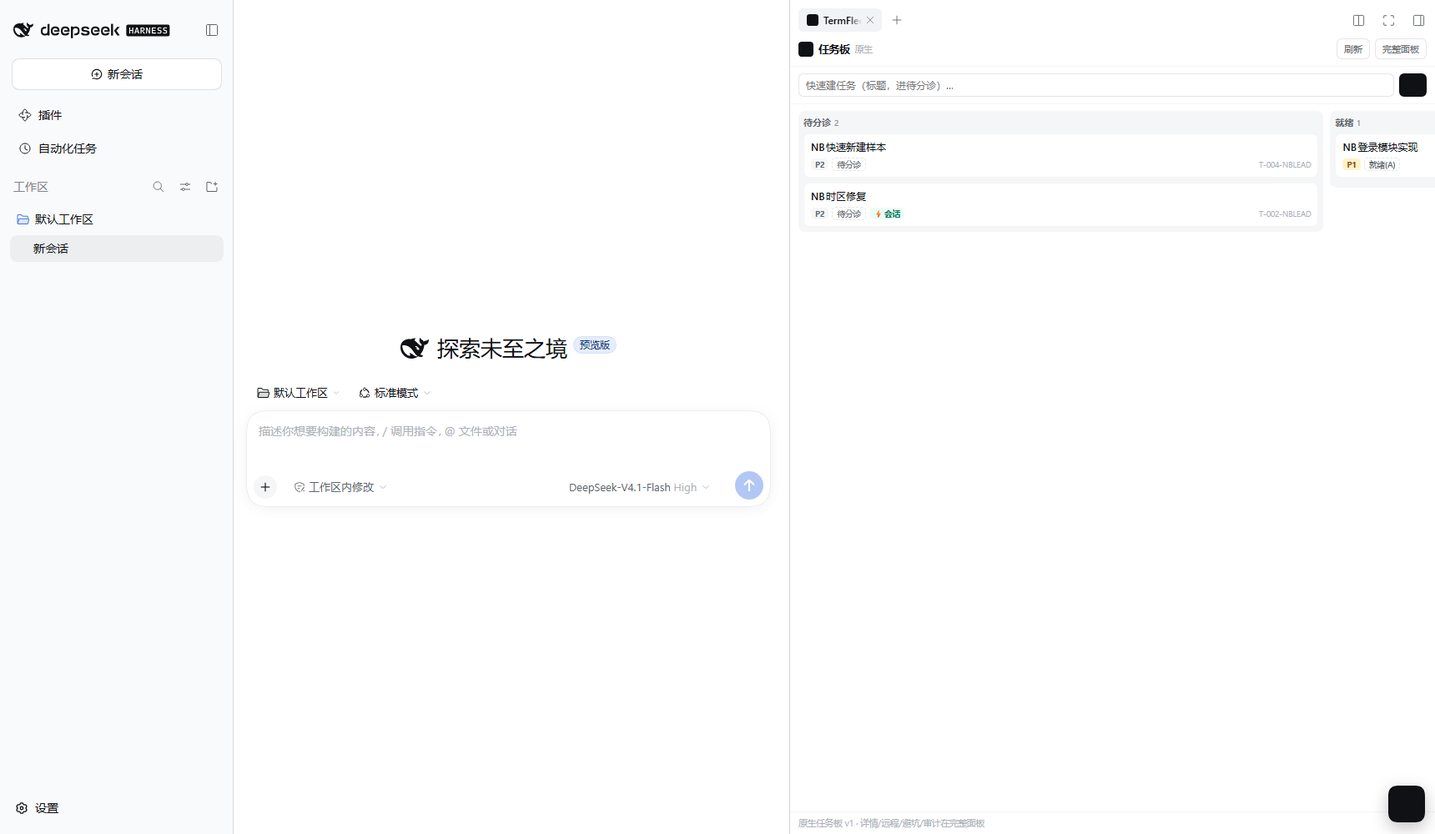
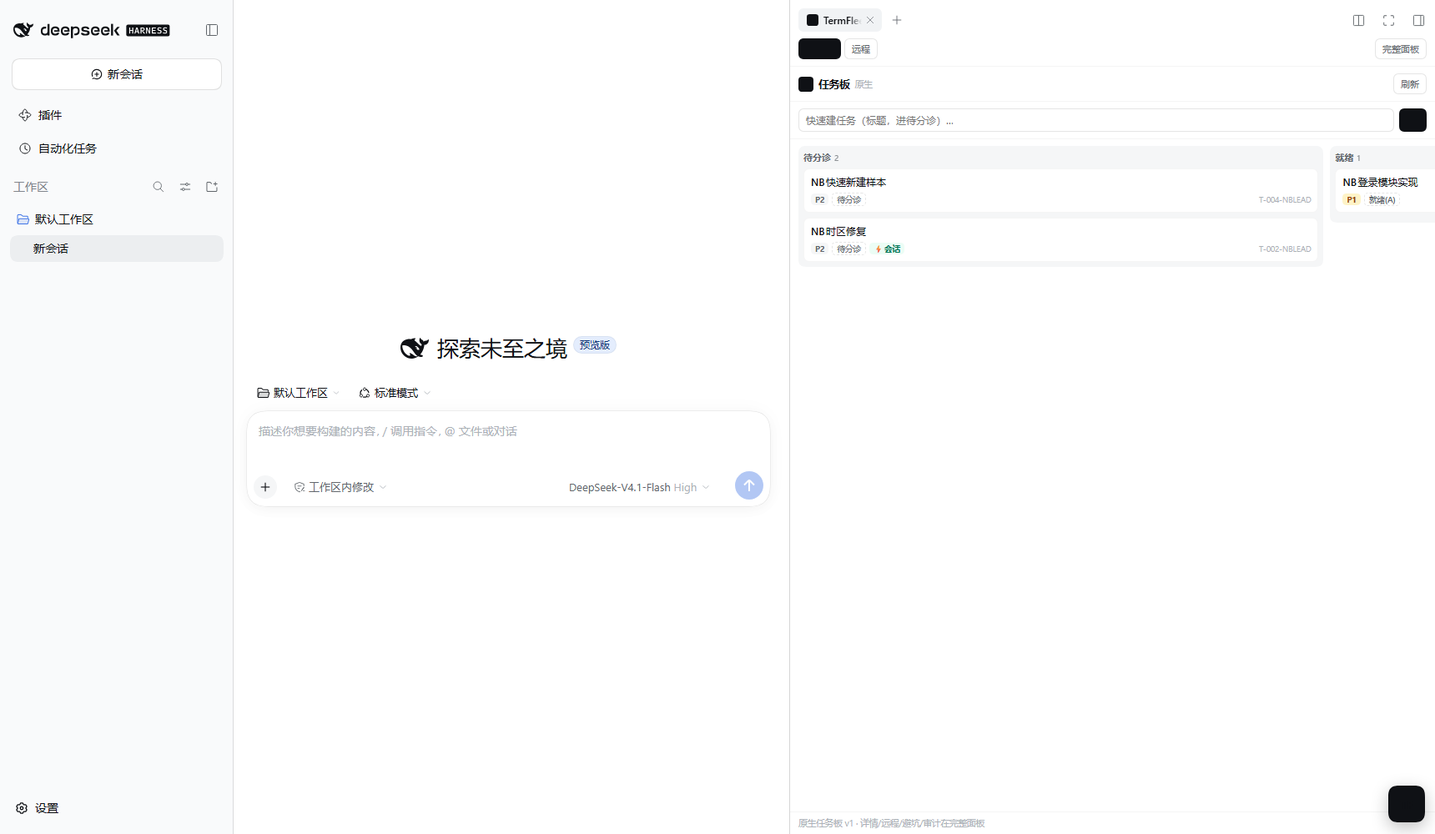
原生化第二步落地:右栏tab原生「远程」视图(任务板/远程分段切换+共享完整面板按钮)——成员卡 fleet 轮询+⚡请求查看(auto=ro 信任自动允许)+请求接管(rw 手动)+member-stream 对话流气泡(user/assistant/tool/status 分色+ack ✓已送达回执)+rw 插话; 核心修复=interval 闭包 stale state 全 ref 化(sel/stream/mode)+自愈重订阅收窄为仅无法订阅态+consentFor 竞态守卫+SSE 内建重连重放按 sessionId:seq 去重(重订不清 evs 插话气泡不丢)+ack 独立事件

diff --git a/lib/client.js b/lib/client.js
@@ -24,7 +24,7 @@ window.__ModuleLoader__.load({
 		"use strict";
 
 		var React = require("react");
-		var h = React.createElement, useState = React.useState, useEffect = React.useEffect;
+		var h = React.createElement, useState = React.useState, useEffect = React.useEffect, useRef = React.useRef;
 		var createPortal = require("react-dom").createPortal;
 
 		// ── 极简状态（模块级 store，避免引依赖） ──
@@ -139,8 +139,7 @@ window.__ModuleLoader__.load({
 					h("b", { style: { fontSize: "12.5px", color: "var(--dsw-alias-label-primary, #0f1115)" } }, "任务板"),
 					h("span", { style: { fontSize: "10.5px", color: "var(--dsw-alias-label-caption, #adb2b8)" } }, "原生"),
 					h("span", { style: { flex: "1" } }),
-					h("button", { onClick: function () { load() }, title: "刷新", style: nbBtnStyle() }, "刷新"),
-					h("button", { onClick: onIframe, title: "切回 iframe 完整面板（远程/避坑/审计等）", style: nbBtnStyle() }, "完整面板")),
+					h("button", { onClick: function () { load() }, title: "刷新", style: nbBtnStyle() }, "刷新")),
 				h("div", { style: { display: "flex", gap: "6px", padding: "8px 10px", flex: "none", borderBottom: "1px solid var(--dsw-alias-border-l1, rgba(0,0,0,.04))" } },
 					h("input", {
 						value: st.newTitle, placeholder: "快速建任务（标题，进待分诊）…",
@@ -211,14 +210,147 @@ window.__ModuleLoader__.load({
 			return h("div", { key: t.id, "data-nb-card": t.id, style: { background: "var(--dsw-alias-bg-base, #fff)", border: "1px solid var(--dsw-alias-border-l1, rgba(0,0,0,.06))", borderRadius: "9px", padding: "7px 8px" } }, head, detail);
 		}
 
-		// ── 官方右侧栏 tab 主体（原生任务板 ↔ iframe 完整面板，flag 切换） ──
+		// ── 原生化第二步：原生「远程」视图（成员列表+会话对话流+插话） ──
+		// 轮询/订阅读 ref 不读 state——interval 闭包里的 state 是挂载时快照（stale），选择与流状态必须走 ref
+		function NativeRemoteView() {
+			var ss = useState({ members: [], sel: null, evs: [], stream: "未选择成员", hint: "", input: "", mode: null, pending: false, ended: false });
+			var st = ss[0], setSt = ss[1];
+			var listRef = useRef(null);
+			var esRef = useRef(null);
+			var selRef = useRef(null);
+			var streamRef = useRef("未选择成员");
+			var modeRef = useRef(null);
+			var seenRef = useRef({});
+			function consentFor(name) {
+				return fetch("/dsh-termfleet/consent/list", { headers: { authorization: "Bearer " + tokRaw() } }).then(function (r) { return r.json() }).then(function (d) {
+					var c = (d.consents || []).find(function (x) { return x.type === "sess" && x.target === "member:" + name });
+					if (!c) return null;
+					if (c.status === "active") return { mode: c.mode, id: c.id };
+					if (c.status === "pending") return { mode: "pending", id: c.id };
+					return null;
+				}).catch(function () { return null });
+			}
+			function loadFleet() {
+				fetch("/dsh-termfleet/fleet", { headers: { authorization: "Bearer " + tokRaw() } }).then(function (r) { return r.json() }).then(function (d) {
+					setSt(function (x) { return Object.assign({}, x, { members: d.members || [] }) });
+				}).catch(function () { /* 轮询失败下轮再试 */ });
+			}
+			function startStream(name) {
+				if (esRef.current) { try { esRef.current.close() } catch (e) {} esRef.current = null }
+				if (!name) { streamRef.current = "未选择成员"; setSt(function (x) { return Object.assign({}, x, { evs: [], stream: "未选择成员" }) }); return }
+				seenRef.current = {}; // 新订阅上下文重置去重；内建重连的重放靠 sessionId:seq 去重（不清 evs，插话气泡不丢）
+				streamRef.current = "连接中…";
+				setSt(function (x) { return Object.assign({}, x, { stream: "连接中…", ended: false, pending: false }) });
+				var es = new EventSource("/dsh-termfleet/member-stream?m=" + encodeURIComponent(name) + "&token=" + encodeURIComponent(tokRaw()));
+				esRef.current = es;
+				es.onopen = function () { streamRef.current = "订阅中"; setSt(function (x) { return Object.assign({}, x, { stream: "订阅中", ended: false }) }) };
+				es.addEventListener("sess", function (ev) {
+					var d = null; try { d = JSON.parse(ev.data) } catch (e) { return }
+					if (d === null) { streamRef.current = "已结束"; setSt(function (x) { return Object.assign({}, x, { stream: "已结束", ended: true }) }); return }
+					if (d && d.__tf === "ack") {
+						setSt(function (x) { return Object.assign({}, x, { evs: x.evs.map(function (b) { return b.pending ? Object.assign({}, b, { pending: false, ack: !!d.ok }) : b }) }) });
+						return;
+					}
+					var e = d && d.ev ? d.ev : d;
+					var dk = (e.sessionId || "x") + ":" + (e.seq != null ? e.seq : "t" + (e.ts || 0) + ":" + String(e.text || "").slice(0, 24));
+					if (seenRef.current[dk]) return; // ES 内建重连会重放缓冲——sessionId:seq 去重防气泡成批重复
+					seenRef.current[dk] = 1;
+					setSt(function (x) { return Object.assign({}, x, { evs: x.evs.concat([{ kind: e.type || "status", text: String(e.text || e.brief || ""), ts: e.ts || Date.now() }]) }) });
+				});
+				function markAck(d) { setSt(function (x) { return Object.assign({}, x, { evs: x.evs.map(function (b) { return b.pending ? Object.assign({}, b, { pending: false, ack: !!d.ok }) : b }) }) }) }
+				es.addEventListener("ack", function (ev) { var d = null; try { d = JSON.parse(ev.data) } catch (e) { return } markAck(d) });
+				es.addEventListener("followup-ack", function (ev) { var d = null; try { d = JSON.parse(ev.data) } catch (e) { return } markAck(d) });
+				es.addEventListener("end", function () { streamRef.current = "已结束"; setSt(function (x) { return Object.assign({}, x, { stream: "已结束", ended: true }) }); try { es.close() } catch (e) {} });
+				es.onerror = function () { if (es.readyState === 2) { streamRef.current = "无法订阅"; setSt(function (x) { return Object.assign({}, x, { stream: "无法订阅（TA 无激活的会话同意）" }) }) } };
+			}
+			function select(name) {
+				selRef.current = name;
+				modeRef.current = null;
+				seenRef.current = {};
+				setSt(function (x) { return Object.assign({}, x, { sel: name, mode: null, evs: [], hint: "" }) });
+				startStream(name);
+			}
+			function requestView(rw) {
+				var name = selRef.current;
+				if (!name) { setSt(function (x) { return Object.assign({}, x, { hint: "先点选成员" }) }); return }
+				nbApi("consent/request", "POST", { type: "sess", target: "member:" + name, auto: rw ? undefined : "ro" }).then(function (r) {
+					return r.json().then(function (d) {
+						setSt(function (x) { return Object.assign({}, x, { hint: d.ok ? (rw ? "接管请求已发起——等 TA 点允许" : "查看请求已发起——TA 开了信任会自动允许（只读）") : "请求失败：" + (d.error || "?") }) });
+					});
+				}).catch(function () { setSt(function (x) { return Object.assign({}, x, { hint: "网络错误" }) }) });
+				// 订阅由 2.5s 轮询在通道激活后自愈重订阅（不在此处抢跑，避免 403 后停在「无法订阅」）
+			}
+			function send() {
+				var text = st.input.trim();
+				var name = selRef.current;
+				if (!text || !name) return;
+				nbApi("interject", "POST", { member: name, text: text }).then(function (r) {
+					return r.json().then(function (d) {
+						if (d.ok) setSt(function (x) { return Object.assign({}, x, { input: x.input === text ? "" : x.input, evs: x.evs.concat([{ kind: "user", text: text, ts: Date.now(), pending: true }]) }) });
+						else setSt(function (x) { return Object.assign({}, x, { hint: "插话失败：" + (d.error || "?") }) });
+					});
+				}).catch(function () { setSt(function (x) { return Object.assign({}, x, { hint: "网络错误" }) }) });
+			}
+			useEffect(function () {
+				loadFleet();
+				var t = setInterval(function () {
+					loadFleet();
+					var name = selRef.current;
+					if (!name) return;
+					consentFor(name).then(function (c) {
+						if (selRef.current !== name) return // select/轮询竞态守卫：在途回包属于旧成员时丢弃
+						if (!c) { if (modeRef.current) { modeRef.current = null; setSt(function (x) { return Object.assign({}, x, { mode: null }) }) } return }
+						if (c.mode !== modeRef.current) { modeRef.current = c.mode; setSt(function (x) { return Object.assign({}, x, { mode: c.mode }) }) }
+						// 自愈：仅「无法订阅」(403 无同意) 且通道已激活时重订——「已结束」(成员掉线) 不空转
+						if ((c.mode === "ro" || c.mode === "rw") && streamRef.current === "无法订阅") startStream(name);
+					});
+				}, 2500);
+				return function () { clearInterval(t); if (esRef.current) { try { esRef.current.close() } catch (e) {} } };
+			}, []);
+			useEffect(function () {
+				if (listRef.current) listRef.current.scrollTop = listRef.current.scrollHeight; // 会话流置底（v1 恒置底）
+			}, [st.evs.length]);
+			var bubbleEls = st.evs.map(function (b, i) {
+				return h("div", { key: i, "data-nb-ev": b.kind, style: { alignSelf: b.kind === "user" ? "flex-end" : "flex-start", maxWidth: "92%", background: b.kind === "user" ? "var(--dsw-alias-brand-primary, #0f1115)" : "var(--dsw-alias-bg-module-platform, #f5f6f7)", color: b.kind === "user" ? "var(--dsw-alias-brand-primary-invert, #fff)" : "var(--dsw-alias-label-primary, #0f1115)", borderRadius: "9px", padding: "5px 8px", font: "400 11px/1.5 " + NB_FONT, wordBreak: "break-word" } },
+					h("div", { style: { display: "flex", gap: "4px", opacity: ".65", fontSize: "9.5px", marginBottom: "2px" } },
+						(b.kind === "user" ? "▶ " : "") + b.kind, b.pending ? "· 发送中…" : b.ack === true ? "· ✓已送达" : ""),
+					String(b.text).slice(0, 200));
+			});
+			var memberChips = st.members.length ? st.members.map(function (m) {
+				return h("button", { key: m.name, "data-nr-member": m.name, onClick: function () { select(m.name) }, style: { border: "1px solid " + (st.sel === m.name ? "var(--dsw-alias-brand-primary, #0f1115)" : "var(--dsw-alias-border-l2, rgba(0,0,0,.1))"), background: st.sel === m.name ? "var(--dsw-alias-bg-module-platform, #f5f6f7)" : "transparent", borderRadius: "8px", padding: "4px 8px", font: "500 11px " + NB_FONT, color: "var(--dsw-alias-label-primary, #0f1115)", cursor: "pointer", flex: "none" } }, "● " + m.name);
+			}) : [h("span", { key: "e", style: { font: "400 11px " + NB_FONT, color: "var(--dsw-alias-label-caption, #adb2b8)" } }, "暂无成员在线（成员配对后出现）")];
+			var rwOn = st.mode === "rw";
+			return h("div", { "data-tf-native-remote": "v1", style: { display: "flex", flexDirection: "column", width: "100%", height: "100%", minHeight: 0, background: "var(--dsw-alias-bg-base, #fff)" } },
+				h("div", { style: { display: "flex", gap: "6px", padding: "8px 10px", flex: "none", flexWrap: "wrap", alignItems: "center", borderBottom: "1px solid var(--dsw-alias-border-l1, rgba(0,0,0,.04))" } }, memberChips),
+				h("div", { style: { display: "flex", gap: "6px", padding: "6px 10px", flex: "none", alignItems: "center", flexWrap: "wrap" } },
+					h("span", { "data-nr-stream-state": st.stream, style: { font: "600 10.5px " + NB_FONT, padding: "2px 6px", borderRadius: "6px", background: st.stream === "订阅中" ? "var(--dsw-alias-bg-success-soft, #ecfdf5)" : "var(--dsw-alias-bg-module-platform, #f5f6f7)", color: "var(--dsw-alias-label-secondary, #61666b)" } }, st.stream),
+					st.mode ? h("span", { style: { font: "600 10.5px " + NB_FONT, padding: "2px 6px", borderRadius: "6px", background: st.mode === "rw" ? "var(--dsw-alias-bg-success-soft, #ecfdf5)" : "var(--dsw-alias-bg-module-platform, #f5f6f7)", color: "var(--dsw-alias-label-secondary, #61666b)" } }, st.mode === "rw" ? "可接管" : st.mode === "pending" ? "等待答复…" : "只读") : null,
+					h("span", { style: { flex: "1" } }),
+					h("button", { onClick: function () { requestView(false) }, disabled: !st.sel, style: nbBtnStyle() }, "⚡请求查看"),
+					h("button", { onClick: function () { requestView(true) }, disabled: !st.sel, style: nbBtnStyle() }, "请求接管")),
+				st.hint ? h("div", { style: { padding: "3px 10px", flex: "none", font: "500 11px " + NB_FONT, color: "var(--dsw-alias-label-secondary, #61666b)" } }, st.hint) : null,
+				h("div", { ref: listRef, "data-nr-list": "", style: { flex: "1", minHeight: 0, overflowY: "auto", display: "flex", flexDirection: "column", gap: "5px", padding: "8px 10px" } },
+					bubbleEls.length ? bubbleEls : [h("div", { key: "p", style: { font: "400 11px " + NB_FONT, color: "var(--dsw-alias-label-caption, #adb2b8)" } }, st.sel ? "订阅后，TA 的会话事件会实时出现在这里" : "点选上方成员 → ⚡请求查看")]),
+				h("div", { style: { display: "flex", gap: "6px", padding: "8px 10px", flex: "none", borderTop: "1px solid var(--dsw-alias-border-l1, rgba(0,0,0,.04))" } },
+					h("input", {
+						value: st.input, disabled: !rwOn, placeholder: rwOn ? "插话（写入 TA 的会话，Enter 发送）…" : (st.mode === "ro" ? "只读通道——插话需 TA 允许接管" : "无 rw 通道"),
+						onChange: function (e) { var v = e.target.value; setSt(function (x) { return Object.assign({}, x, { input: v }) }) },
+						onKeyDown: function (e) { if (e.key === "Enter") send() },
+						style: { flex: "1", minWidth: 0, border: "1px solid var(--dsw-alias-border-l2, rgba(0,0,0,.1))", borderRadius: "8px", padding: "5px 8px", fontSize: "12px", background: "var(--dsw-alias-bg-input, #fff)", color: "var(--dsw-alias-label-primary, #0f1115)", outline: "none" }
+					}),
+					h("button", { onClick: send, disabled: !rwOn, style: nbBtnStyle(true) }, "发")));
+		}
+
+		// ── 官方右侧栏 tab 主体（原生 任务板/远程 分段切换 ↔ iframe 完整面板，flag 切换） ──
 		function TfTabBody() {
 			var flag = useState(nbOn());
 			var native = flag[0], setNative = flag[1];
+			var vw = useState("board");
+			var view = vw[0], setView = vw[1];
 			var ss = useState({ kind: "loading", msg: "探测 TermFleet host..." });
 			var setStatus = ss[1];
 			useEffect(function () {
-				if (native) return; // 原生板自带数据探测，仅 iframe 模式探测宿主
+				if (native) return; // 原生视图自带数据探测，仅 iframe 模式探测宿主
 				var ac = new AbortController();
 				fetch("/dsh-termfleet/app", { method: "GET", credentials: "include", signal: ac.signal })
 					.then(function (r) {
@@ -237,7 +369,21 @@ window.__ModuleLoader__.load({
 					});
 				return function () { ac.abort(); };
 			}, [native]);
-			if (native) return h(NativeTaskBoard, { onIframe: function () { nbSet(false); setNative(false) } });
+			function nbSeg(k, label) {
+				return h("button", {
+					onClick: function () { setView(k) },
+					style: Object.assign({}, nbBtnStyle(), view === k ? { background: "var(--dsw-alias-brand-primary, #0f1115)", color: "var(--dsw-alias-brand-primary-invert, #fff)", borderColor: "var(--dsw-alias-brand-primary, #0f1115)" } : {})
+				}, label);
+			}
+			function openFull() { nbSet(false); setNative(false) }
+			if (native) {
+				return h("div", { "data-tf-native": "v1", style: { display: "flex", flexDirection: "column", width: "100%", height: "100%", minHeight: 0, background: "var(--dsw-alias-bg-base, #fff)" } },
+					h("div", { style: { display: "flex", gap: "4px", padding: "8px 10px", flex: "none", alignItems: "center", borderBottom: "1px solid var(--dsw-alias-border-l1, rgba(0,0,0,.04))" } },
+						nbSeg("board", "任务板"), nbSeg("remote", "远程"),
+						h("span", { style: { flex: "1" } }),
+						h("button", { onClick: openFull, title: "切回 iframe 完整面板（避坑/审计/设置等）", style: nbBtnStyle() }, "完整面板")),
+					view === "remote" ? h(NativeRemoteView) : h(NativeTaskBoard, { onIframe: openFull }));
+			}
 			var st = ss[0];
 			var banner = null;
 			if (st.kind === "auth" || st.kind === "error" || st.kind === "network") {

diff --git a/docs/NEXT-UPDATES.md b/docs/NEXT-UPDATES.md
@@ -52,7 +52,7 @@
 
 ## P2 —— 体验深化（不急但值得记）
 
-- 面板原生化（iframe → slots React 组件，主题/导航全原生融合）——**2026-10-18 侦察结论：partial（壳已原生化，整面板重写暂缓，条件触发）**。可行半边已落地并实测：官方右侧栏整面板位可用——`sidebarRightTabs.register`+`sidebar.right.pane.tab`(keyed) 槽收 React 组件撑满侧栏，本插件 v2 已注册且 0.2.0 实测工作（lib/client.js:256-290；截图 sidebar-right-v2-*.png、与 better-sidebar 共存 sidebar-coexist-{1..8}.png，官方 DockSurface chrome 并存）；react 经客户端模块表 require+h() 即可写原生组件（lib/client.js:26-28），主题用宿主 `--dsw-alias-*` 变量。暂缓半边的证据：①装好的 `@deepseek-ai/dsh@0.2.1-alpha.2` 只带 8 行 `lib/types/plugin.d.ts`（仅 runPlugin），槽位零类型；②`@deepseek-ai/dsh-client-ui-slots`/`dsh-client-runtime` 本机未安装（ls 实测）；③本地 harness 源为 0.1.2-rc.1/0.1.3-alpha.1，其 `ui-sidebar` 契约只有左栏 brand/section/settings/footer 槽（packages/client/ui-sidebar/src/client/contract/slots.ts），`sidebar.right.pane.tab`/`sidebarRightTabs` 全树 0 命中——0.2.x 槽面源码与文档本地不可得；④该槽面 0.1→0.2 已破坏过一次（utilities 槽删、rightbar.session 被 mf 占用，docs/lib/decisions.md 2026-10-05 条目），alpha 期全量重写（~1400 行 app：4 页+SSE+表单+弹窗）每次升版都有整面报废风险。**最小落地路径**（渐进，不全量）：保持官方 tab 壳+iframe 主体现状 → 逐页（建议先任务板）用 React+h 重写为 tab body 内组件，feature flag 与 iframe 并存可切 → 上游发布 dsh-client-ui-* 类型/正式文档后整体替换并删 iframe。触发条件=③解除。**✅ 第一步已落地（2026-10-15）**：最小落地路径的第 1 步走完——任务板页原生 React 看板（NativeTaskBoard：6 列+卡片展开详情+状态流转+快速建任务）默认渲染于 tab body，「完整面板」一键切回 iframe（远程/避坑/审计仍在），flag=`localStorage.tf_native_board`；E2E N1-N6 全绿（挂载/列/徽标/展开流转/快速建/双向切换+pageerror 门，截图 nb-1-native-board.png，decisions 2026-10-15）。下一步=远程页对话流重写（逐页渐进）
+- 面板原生化（iframe → slots React 组件，主题/导航全原生融合）——**2026-10-18 侦察结论：partial（壳已原生化，整面板重写暂缓，条件触发）**。可行半边已落地并实测：官方右侧栏整面板位可用——`sidebarRightTabs.register`+`sidebar.right.pane.tab`(keyed) 槽收 React 组件撑满侧栏，本插件 v2 已注册且 0.2.0 实测工作（lib/client.js:256-290；截图 sidebar-right-v2-*.png、与 better-sidebar 共存 sidebar-coexist-{1..8}.png，官方 DockSurface chrome 并存）；react 经客户端模块表 require+h() 即可写原生组件（lib/client.js:26-28），主题用宿主 `--dsw-alias-*` 变量。暂缓半边的证据：①装好的 `@deepseek-ai/dsh@0.2.1-alpha.2` 只带 8 行 `lib/types/plugin.d.ts`（仅 runPlugin），槽位零类型；②`@deepseek-ai/dsh-client-ui-slots`/`dsh-client-runtime` 本机未安装（ls 实测）；③本地 harness 源为 0.1.2-rc.1/0.1.3-alpha.1，其 `ui-sidebar` 契约只有左栏 brand/section/settings/footer 槽（packages/client/ui-sidebar/src/client/contract/slots.ts），`sidebar.right.pane.tab`/`sidebarRightTabs` 全树 0 命中——0.2.x 槽面源码与文档本地不可得；④该槽面 0.1→0.2 已破坏过一次（utilities 槽删、rightbar.session 被 mf 占用，docs/lib/decisions.md 2026-10-05 条目），alpha 期全量重写（~1400 行 app：4 页+SSE+表单+弹窗）每次升版都有整面报废风险。**最小落地路径**（渐进，不全量）：保持官方 tab 壳+iframe 主体现状 → 逐页（建议先任务板）用 React+h 重写为 tab body 内组件，feature flag 与 iframe 并存可切 → 上游发布 dsh-client-ui-* 类型/正式文档后整体替换并删 iframe。触发条件=③解除。**✅ 第一步已落地（2026-10-15）**：最小落地路径的第 1 步走完——任务板页原生 React 看板（NativeTaskBoard：6 列+卡片展开详情+状态流转+快速建任务）默认渲染于 tab body，「完整面板」一键切回 iframe（远程/避坑/审计仍在），flag=`localStorage.tf_native_board`；E2E N1-N6 全绿（挂载/列/徽标/展开流转/快速建/双向切换+pageerror 门，截图 nb-1-native-board.png，decisions 2026-10-15）。下一步=远程页对话流重写（逐页渐进）——**✅ 第二步已落地（2026-10-15）**：右栏 tab 升级「任务板/远程」分段切换，原生远程视图（成员卡轮询/⚡请求查看·信任自动/请求接管/rw 插话/会话对话流气泡+✓已送达回执）；E2E RN1-RN4 全绿（verify-native-remote.cjs 双实例，含 ack 断言与重放去重），截图 nr-1-native-remote.png（decisions 2026-10-15 第二步条目）。剩余=避坑库/审计页重写（低频后置）
 - 成本接 dsh-cost-meter 价目表（当前只有操作数/时长估算）——**2026-10-09 侦察结论：暂缓**。dsh-cost-meter v1.8.24 是 UI 侧插件（侧边栏/额度条/热图），README 无文档化数据接口（路由/账本文件格式）可对接；按供应链纪律不猜私有格式。路径：等其文档化 ledger/endpoint 后做条件代理（检测到即用、否则回落估算），或向 upstream 提接口提案
 - 接管回放升级：按审计事件切片跳转（2026-10-07 调研降级：无稀缺性、需求实证弱，排 P2 末位）
 - ~~封印 manifest~~ ✅ + ~~linkcheck~~ ✅ 已落地（2026-10-09，doclib 评审缺口①②清偿，D-W1 部分承接）：`npm run doc:seal`（31 文件 SHA-256 账本，防篡改实测=改一字必被抓）+ `npm run doc:linkcheck`（内链磁盘校验，抓出并修复 2 条 PLAN.md 断链）；`seal --verify` 退出码可接 CI/巡检

diff --git a/docs/lib/decisions.md b/docs/lib/decisions.md
@@ -151,6 +151,10 @@ Host 头回落（优先级第三）在跨机经 lan-forwarder 时不可达——
 
 侦察判定 hippo 向量能力**可用**（全局 dsh-hippo 0.5.0 `import('dsh-hippo/engine')`→openEngine→ZvecStore+MemoryEngine，bge-m3 1024 维，本机探针实测相关条目 similarity 1.0 vs 无关 0.4919），但 v1 选本地 bigram、不接 hippo，理由：①**契约 A 已把评分钉死**为归一化（小写+去空白/标点）字符 bigram 集合的 Jaccard，TERMFLEET_DEDUP_THRESHOLD 默认 0.55 的语义绑定该评分域，且宿主/面板双方必须严格一致——hippo 混合检索的 similarity 是 RRF 归一排名分、纯余弦要 store.search 自带向量，换引擎即换评分域、跨端契约作废；②宿主进程可能与 dsh-hippo 插件同装，openEngine 私有 storeDir 需 HIPPO_DATA_DIR **进程级** env，会改同进程其他 hippo 消费者的数据目录指向（活数据纪律风险），模型冷加载 ~3-4s/进程，而任务量级 ≤百、O(n) 扫描成本≈0。落地：`findSimilarTasks` 独立小函数置于 taskStore 后（lib/index.js:351-388，候选=状态不在 wontfix/archived，score≥阈值前 3 条降序）；`POST /tasks/similar`（鉴权门内，:1401-1412，`{ok, similar:[{id,title,status,score}]}`，只读不审计）+ `/tasks/create` 响应追加 `similar`（先于建库计算=天然不含本任务，:1393；提示非门禁，审计不变）。降级路径=现行 bigram 即实现本身；升级路径已写进 lib/index.js 注释：`import('dsh-hippo/engine')`→openEngine(私有 storeDir)→provider.embed→store.search 取 1.0-cosine 距离，届时评分域切余弦、阈值两端同步调参升版。冒烟实测（stub 宿主+USERPROFILE 重定向临时盘）：近似命中 8/11≈0.727、无关标题空、wontfix 排除、top-3 降序、阈值 env=0.99 时中分被滤/满分仍过（≥ 语义）全过。
 
+## 2026-10-15 · 原生化第二步：右栏 tab 原生「远程」视图（成员卡/信任请求/对话流/插话）
+
+tab 主体改「任务板/远程」分段切换（共享完整面板按钮）。NativeRemoteView：fleet 2.5s 轮询成员卡；⚡请求查看（auto=ro 信任自动允许）/请求接管（rw 手动）；member-stream EventSource 对话流（sess 气泡按 type 分色、ack/followup-ack 回执「✓已送达」、end 收口）；插话框 rw 才启用，成功后本地 pending 气泡待 ack。**核心教训=interval 闭包里的 state 是挂载时快照（stale）**：选择/流状态/模式全部 ref 化（selRef/streamRef/modeRef），轮询只读 ref；自愈重订阅收窄为「streamRef==='无法订阅' 且通道已激活」——「已结束」（成员掉线）不自动重订防 2.5s 空转；consentFor 回调带 `selRef.current!==name` 竞态守卫（在途回包属于旧成员时丢弃）。**SSE 内建重连会重放环形缓冲**（服务端 retry:2000 + 每连接重放 ≤300 条）→ sess 事件按 `sessionId:seq` 去重（seenRef，startStream/select 时重置），重订不清 evs（插话本地气泡不丢）；ack 走独立事件类型 `ack`/`followup-ack`（sess 里也内嵌 __tf==='ack'，双路都监听）。评审处置：F1 重放去重/F2 自愈空转+掉线气泡丢失/F3 select 竞态守卫/F4 send 精确清空 input；死代码清理（不可达 native 分支/onIframe prop）。E2E verify-native-remote.cjs RN1-RN4（双实例+信任链+ack 断言）全绿；verify-native-board.cjs 6/6 回归（N6 选择器更新：完整面板按钮已挪共享头）。
+
 ## 2026-10-15 · 原生化渐进第一步：右栏 tab 原生任务板（React h()，flag 与 iframe 并存）
 
 TfTabBody 改为 flag 感知（`localStorage.tf_native_board`，默认原生）：NativeTaskBoard=6 列看板（ready 归并 ready-for-*、wontfix/archived 入「其他」兜底列）+卡片展开详情（验收勾选/待确认/UB_FLOW 状态流转按钮/认领/删除）+⚡会话徽标+快速建任务+6s 轮询；「完整面板」按钮切回 iframe 主体（远程/避坑/审计仍在完整面板），双向可切。数据全走既有鉴权路由（/tasks、/tasks/action，Bearer=localStorage.tf_token），401 显式转 auth banner（guard 的 401 响应无 ok 字段，不查状态码会显示假成功 hint——独立评审 F1）。**调试实录**：挂载后面板空+React #62 → WebFetch 解码（#62=style prop 传字符串）→ `var th="display:flex;…"` 字符串样式改对象即愈；`git stash` 对照实验证明 0.2.1-alpha.2 上旧 iframe tab 正常挂载（body:true、无 #62），排除宿主回归；宿主「layout: tab tab2 has no pane」为新旧都有的良性噪音（pageerror 门按此豁免）。评审 F2 修=非预期 pageerror 计入退出码。已知边界：详情仍是轻量版（文档正文/大纲/避坑在完整面板）；在途轮询卸载后 setSt 为 React 18 no-op（备案）。截图 nb-1-native-board.png；脚本 `node scripts/verify-native-board.cjs`（临时实例，零接触真实 3180）。

diff --git a/docs/audit/P1-ACCEPTANCE.md b/docs/audit/P1-ACCEPTANCE.md
@@ -135,3 +135,18 @@
 | N6 | flag 双向切换 | ✅ | 完整面板→iframe 主体；原生任务板→原生回归 |
 
 **调试实录与评审处置**（详见 decisions 2026-10-15）：面板空+React #62 → 错误码解码=style prop 传字符串 → 改样式对象即愈；stash 对照实验排除宿主回归（旧 iframe tab 在 0.2.1-alpha.2 正常挂载）；评审 F1=401 假成功 hint（guard 401 响应无 ok 字段）→ act/quickAdd 补状态码检查；F2=pageerror 计入退出码（豁免宿主已知噪音「tab tab2 has no pane」）。已知边界：原生详情为轻量版（文档正文/大纲/避坑在完整面板）；快速建任务仅标题（进待分诊）。截图 nb-1-native-board.png。
+
+═══════════════════════════════════════════
+
+# 面板原生化第二步 验收记录（2026-10-15，verify-native-remote.cjs RN1-RN4 全绿 + 任务板 6/6 回归）
+
+> 右栏 tab 升级「任务板/远程」分段切换；原生远程视图=成员卡轮询+⚡请求查看(信任自动 ro)+请求接管(rw 手动)+member-stream 对话流气泡(ack ✓已送达)+rw 插话。复跑：`node scripts/verify-native-remote.cjs`（双实例：member env 直连+信任+probe 回显断言，零接触真实 3180）。
+
+| # | 场景 | 结果 | 关键证据 |
+|---|---|---|---|
+| RN1 | 远程视图+成员卡 | ✅ | 分段切换挂载 `[data-tf-native-remote]`，fleet 轮询出「● NR-MEMBER」卡 |
+| RN2 | ⚡请求查看 | ✅ | 信任自动允许 ro → 流状态=订阅中 + 通道 chip=只读（2.5s 自愈重订阅路径实测） |
+| RN3 | 会话事件→原生气泡 | ✅ | 成员 probe write → 原生对话流出现 ▶ user 气泡含 MARK（sessionId:seq 去重下无重复） |
+| RN4 | 请求接管+插话闭环 | ✅ | rw 手动允许 → 插话框启用 → 插话后 ack「✓已送达」+ 成员会话真实回显 |
+
+**评审处置**：F1 SSE 内建重连重放→sessionId:seq 去重（重订不清 evs）；F2 自愈空转收窄（仅无法订阅态重订）+重订不清 evs（插话气泡不丢）；F3 select/轮询竞态守卫（selRef 比对）；F4 send 精确清空 input+select 清 hint；死代码清理（不可达分支/onIframe）。已知边界：原生详情轻量版；多成员切换的流隔离已由 startStream close+去重重置覆盖（单成员 E2E，多成员留真双机）。
